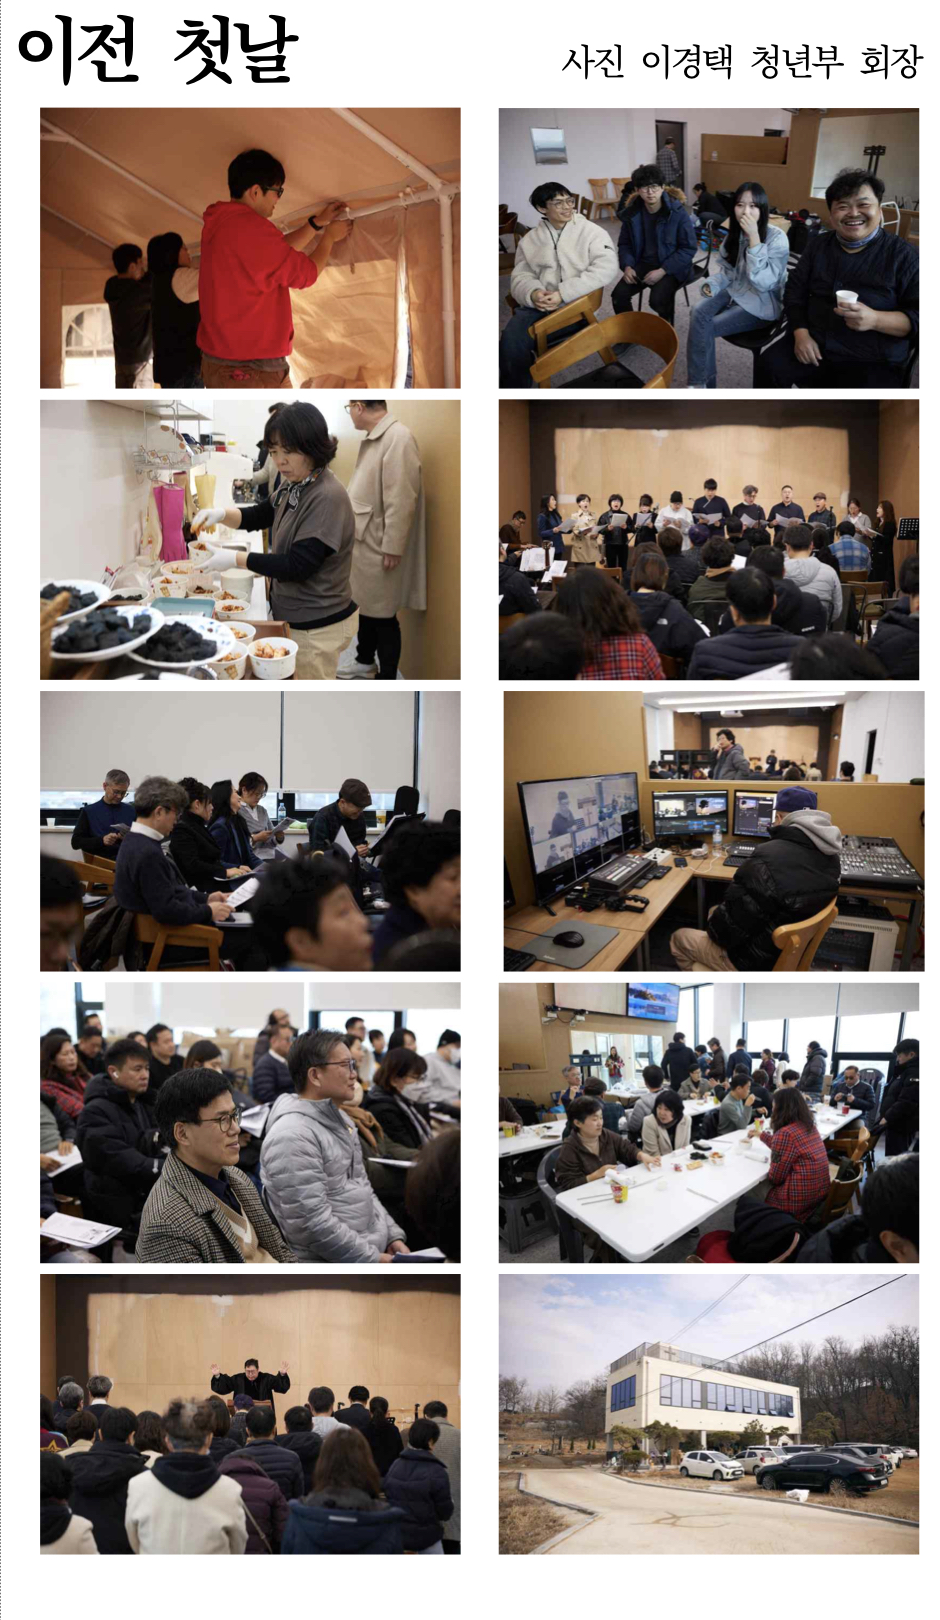
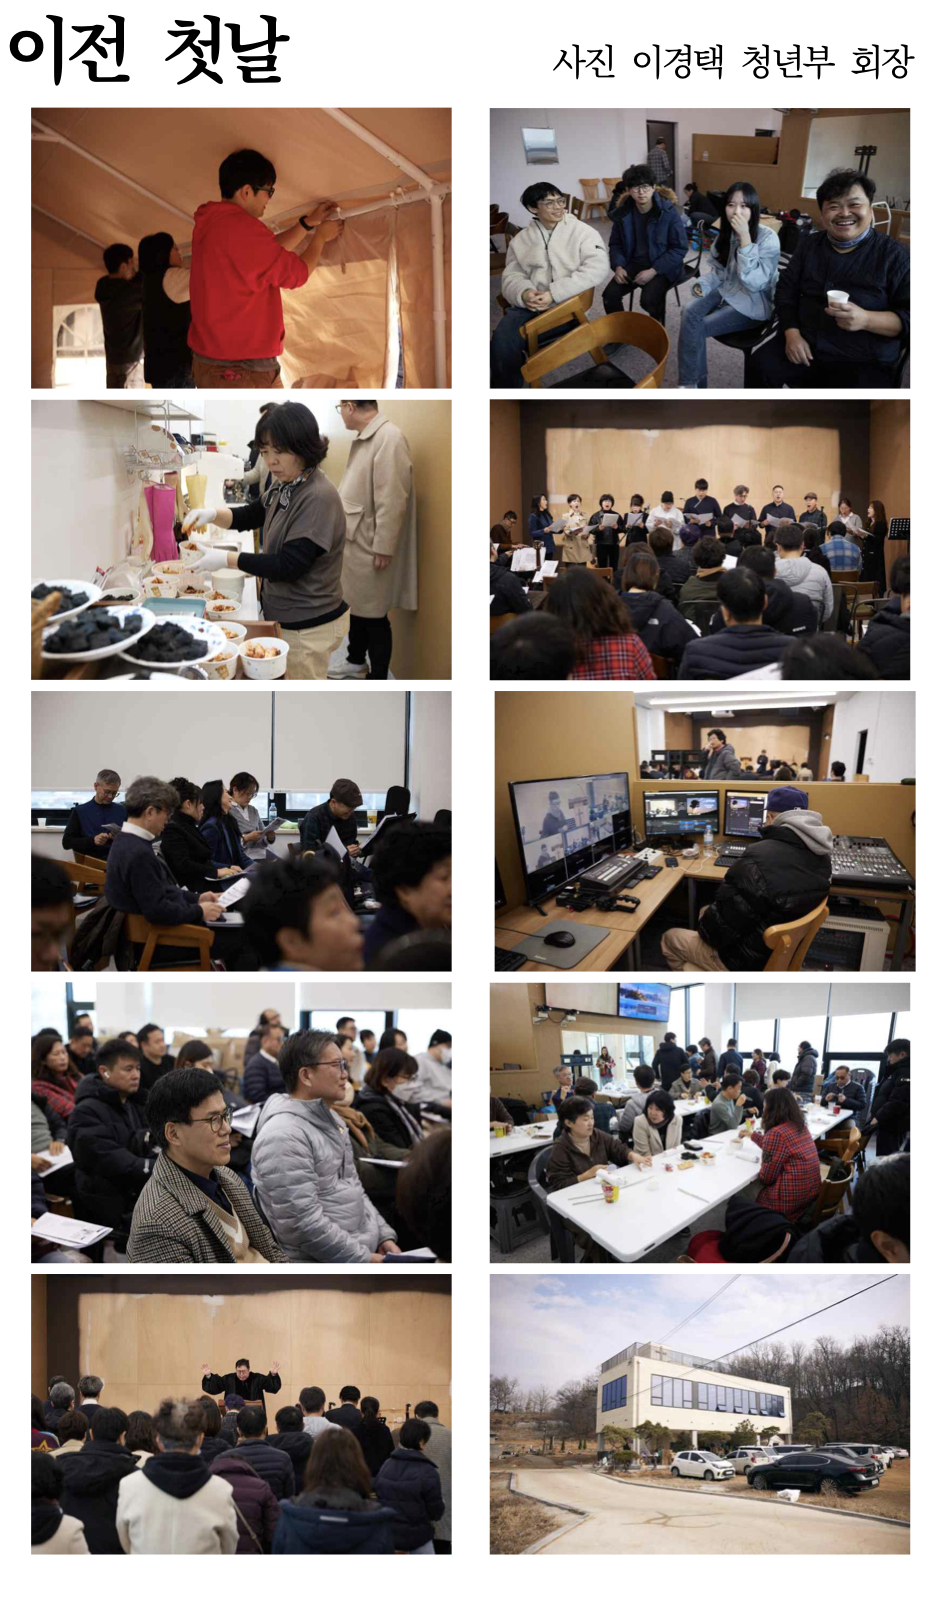
주보 2025년 3월 9일 수정

Changed region(s): [[0.0, 0.0, 0.9872, 0.9568], [0.1851, 0.0, 0.3085, 0.0617], [0.3394, 0.9259, 0.3702, 0.9568]]

diff --git a/style/img_news.css b/style/img_news.css
@@ -2,6 +2,9 @@ section article .img_news img {
     width: 100% !important;
     height: 100% !important;
     max-height: 100% !important;
+    border-bottom-color: darkgray;
+    border-bottom-style: dashed;
+    border-bottom-width: 1px;
 }
 
 @media screen and (min-width: 240px) and (max-width: 950px) {
